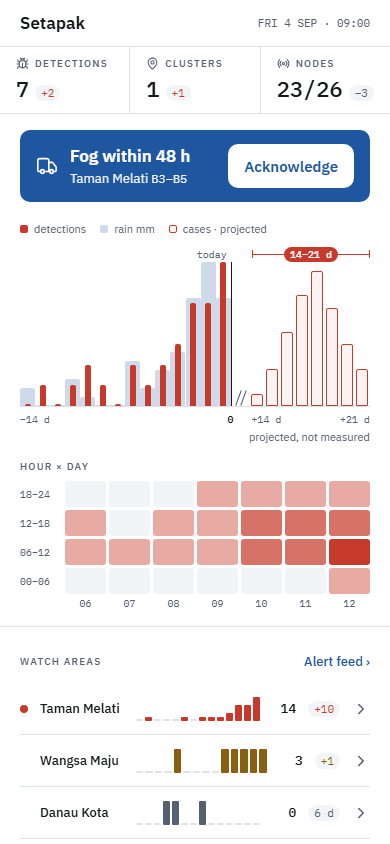
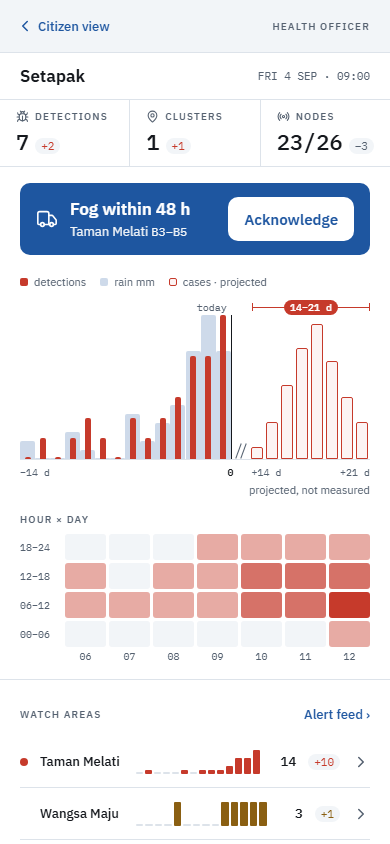
officer: a way back out — the surface was a dead end
John, 2026-09-19: History pushes you into the officer view and nothing ever
brought you back. Reported as a bug, and it was one.

The officer home gains a role bar above the district header: the exit on the
left, the surface's own name on the right.

  ‹ Citizen view                              HEALTH OFFICER

A bar, not a tab. Putting a government dashboard beside History in the citizen
shell would say the two audiences are peers, and the whole design rests on
them not being — the same argument already written out in `history.tsx` for
why the entry is a settings-adjacent row rather than a fourth tab. One
deliberate entry, one deliberate exit, each naming the surface on the far side.

It is the ONLY exit, and that is enough: every other officer screen already
backs out to this one.

The exit is `back()` when there is something behind it — that returns to
History with its scroll position intact — and `replace('/')` otherwise. The
second branch is not defensive padding: the officer home is opened by URL
directly, by the board and by the demo, and a `back()` with an empty stack
would leave the user exactly as stranded as they were before this commit.

Verified by walking it, not by reading it — three entry paths:
  A  History → officer → exit            lands on /history
  B  direct URL to /officer → exit       lands on /
  C  officer → cluster → back → exit     lands on /officer, then /

The bar also makes the surface self-describing: a judge who lands here can see
[…]

diff --git a/app/src/app/officer/index.tsx b/app/src/app/officer/index.tsx
@@ -1,7 +1,7 @@
-import { Link } from 'expo-router';
+import { Link, router } from 'expo-router';
 import { Pressable, ScrollView, Text, View } from 'react-native';
 import { SafeAreaView } from 'react-native-safe-area-context';
-import { Bug, ChevronRight, MapPin, Radio, Truck } from 'lucide-react-native';
+import { Bug, ChevronLeft, ChevronRight, MapPin, Radio, Truck } from 'lucide-react-native';
 import tokens from '../../../tailwind.tokens.js';
 
 import { DirectiveRecord } from '@/components/DirectiveRecord';
@@ -102,6 +102,19 @@ function StateDot({ state }: { state: DirectiveState }) {
   );
 }
 
+/**
+ * Leave the officer surface for the citizen app.
+ *
+ * `back()` when there is somewhere to go back to — that returns to History with its scroll position
+ * intact, which is where the officer view is entered from. `replace('/')` otherwise, because the
+ * officer home is reachable by URL directly (that is how the board and the demo open it), and a
+ * `back()` with nothing behind it leaves the user exactly as stranded as before.
+ */
+function exitToCitizen() {
+  if (router.canGoBack()) router.back();
+  else router.replace('/');
+}
+
 /** KPI key → its label. `data/district.ts` emits the key; the words live in `src/copy/`. */
 function kpiLabel(key: string, c: Copy): string {
   return key === 'detections'
@@ -130,6 +143,36 @@ export default function OfficerHome() {
         contentContainerStyle={{ paddingBottom: 24 }}
         showsVerticalScrollIndicator={false}
       >
+        {/* ── role bar ──────────────────────────────────────────────────────
+
+            The officer surface was a DEAD END: History pushes you here and nothing brought you
+            back (John, 2026-09-19). This bar is the door, and it is the ONLY one — every other
+            officer screen already backs out to this one.
+
+            A bar rather than a tab, on purpose. Putting a government dashboard beside History in
+            the citizen shell would state that the two audiences are peers, and the whole design
+            rests on them not being (the same argument is written out in `history.tsx`). One
+            deliberate entry, one deliberate exit, each naming the surface on the other side.
+
+            It also makes the surface self-describing: a judge who lands here can see WHICH view
+            they are looking at, which the district name alone never said. */}
+        <View className="flex-row items-center justify-between border-b border-o-line bg-o-surface px-2 py-1">
+          <Pressable
+            accessibilityRole="button"
+            accessibilityLabel={c.officer.exitToCitizen}
+            onPress={exitToCitizen}
+            className="min-h-[44px] flex-row items-center gap-1 rounded-card px-2"
+            style={({ pressed }) => (pressed ? { opacity: 0.6 } : null)}
+          >
+            <ChevronLeft size={18} color={tokens.colors['o-primary']} strokeWidth={2} />
+            <Text className="font-plex-medium text-[13px] text-o-primary">
+              {c.officer.exitToCitizen}
+            </Text>
+          </Pressable>
+          <Text className="px-3 font-plex-medium text-[10px] uppercase tracking-[1.2px] text-o-muted">
+            {c.officer.roleLabel}
+          </Text>
+        </View>
         {/* ── district header ───────────────────────────────────────────── */}
         <View className="flex-row items-center justify-between border-b border-o-line px-5 pb-3 pt-3">
           <View className="flex-row items-center gap-2">

diff --git a/app/src/copy/en.ts b/app/src/copy/en.ts
@@ -295,6 +295,18 @@ export const en = {
   },
 
   officer: {
+    /**
+     * The role bar on the officer home. `roleLabel` states which surface you are on; `exitToCitizen`
+     * is the way out. Both exist because the officer surface was a DEAD END — you could reach it
+     * from History and never get back (John, 2026-09-19).
+     *
+     * The exit is deliberately ONE control on the officer home, not a tab: a government dashboard
+     * sitting beside History in the citizen shell would say the two audiences are peers, and the
+     * whole design rests on them not being (see the same argument in `history.tsx`).
+     */
+    roleLabel: 'Health officer',
+    exitToCitizen: 'Citizen view',
+
     kpiDetections: 'Detections',
     kpiClusters: 'Clusters',
     kpiNodes: 'Nodes',

diff --git a/app/src/copy/ms.ts b/app/src/copy/ms.ts
@@ -304,6 +304,13 @@ export const ms: Copy = {
   },
 
   officer: {
+    /**
+     * Bar peranan pada laman utama pegawai — `roleLabel` menyatakan paparan mana anda berada,
+     * `exitToCitizen` ialah jalan keluar. Lihat nota penuh dalam `en.ts`.
+     */
+    roleLabel: 'Pegawai kesihatan',
+    exitToCitizen: 'Paparan orang awam',
+
     kpiDetections: 'Pengesanan',
     kpiClusters: 'Kelompok',
     kpiNodes: 'Nod',
